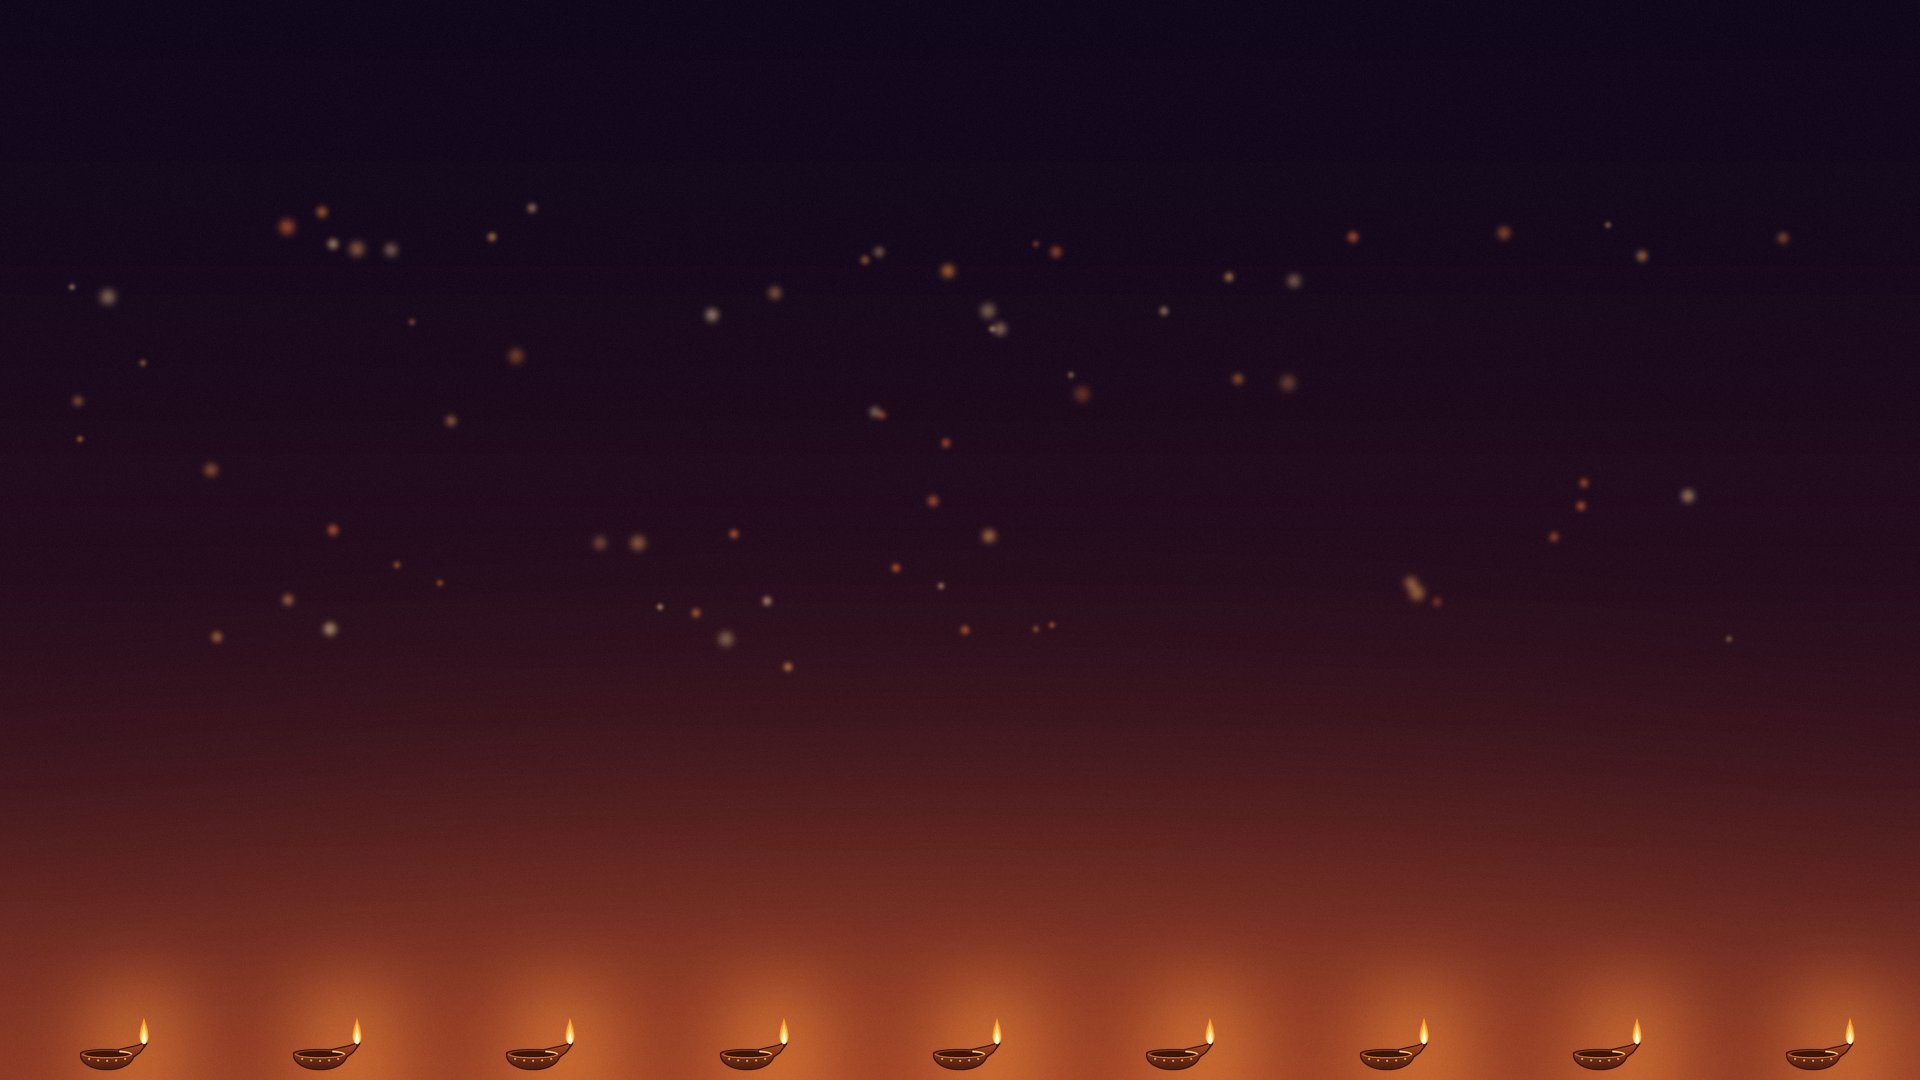
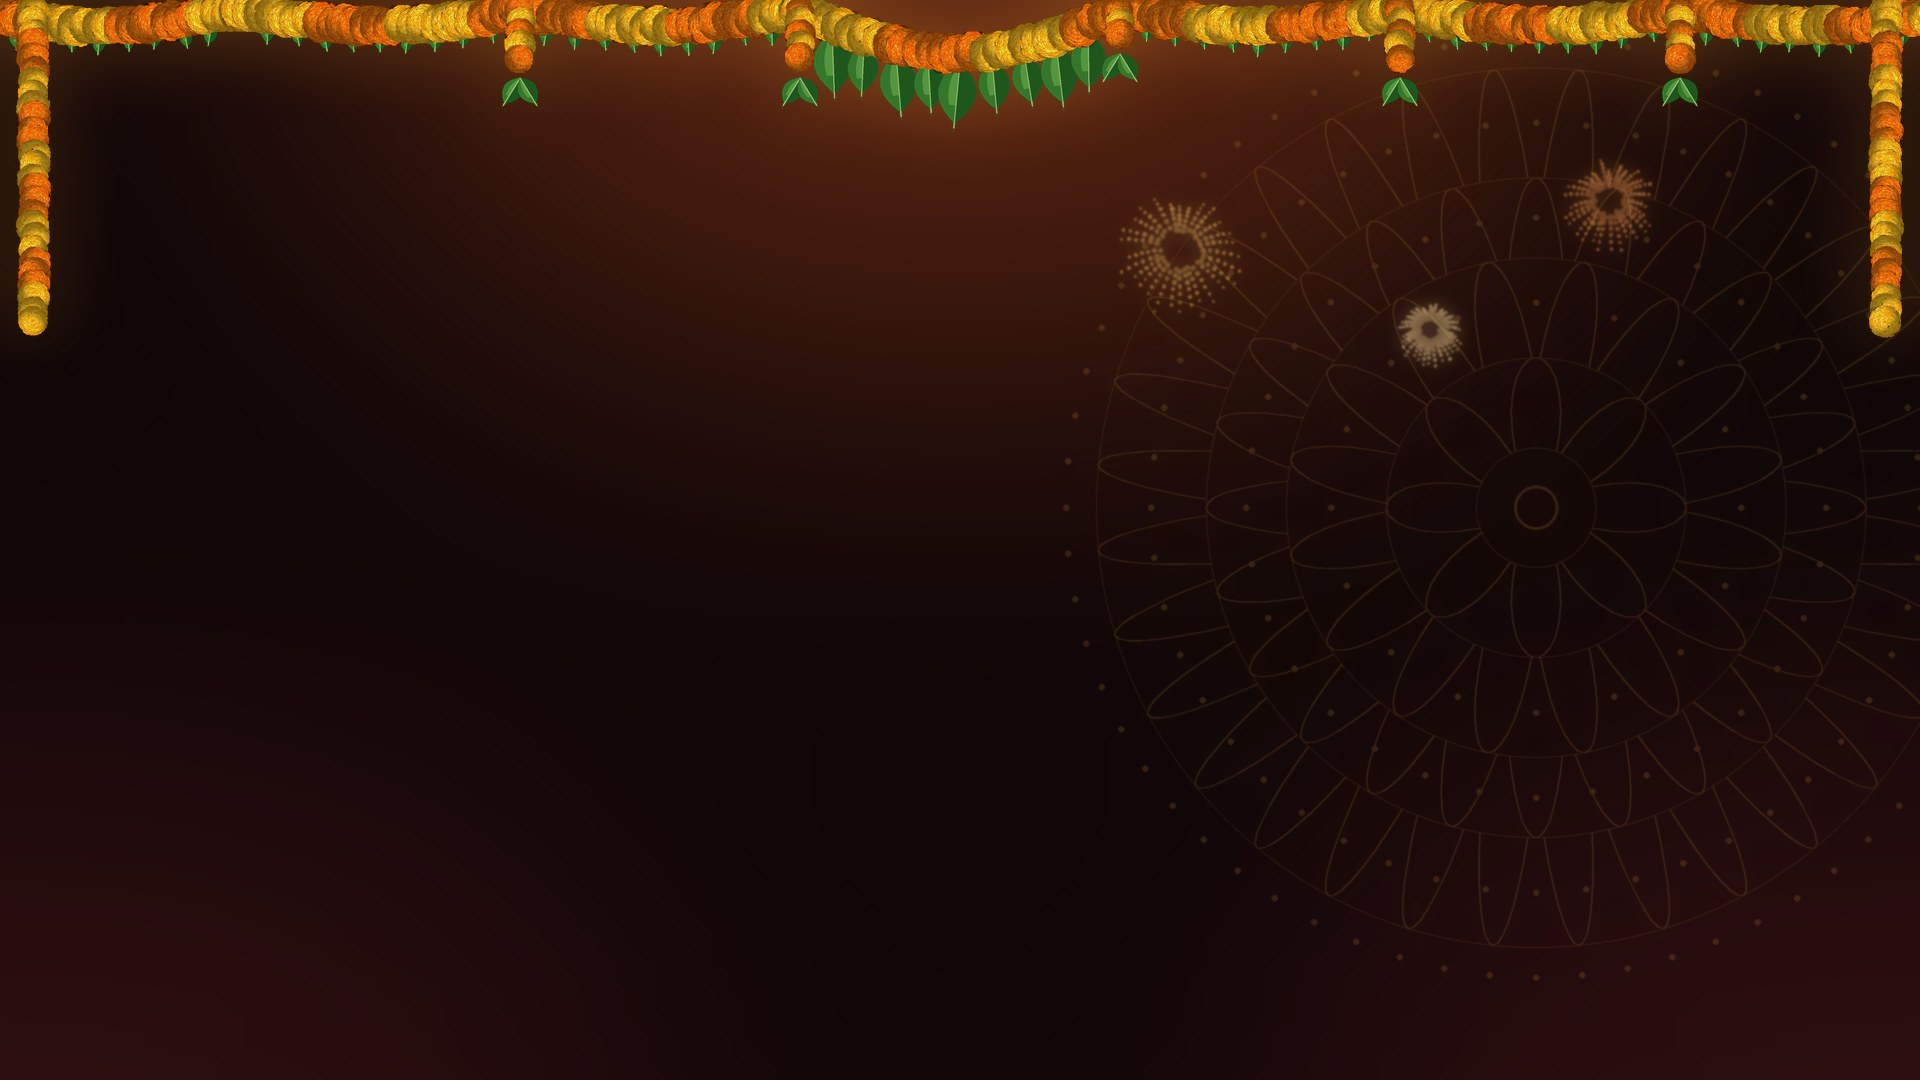
themes/dussehra: festive skin wallpaper (marigold toran and rangoli); document the festival keys

diff --git a/themes/README.md b/themes/README.md
@@ -16,7 +16,7 @@ powershell -ExecutionPolicy Bypass -File tools\theme.ps1 -TvHost 192.168.1.50 th
 |---|---|
 | `default/` | The built-in look written out as JSON, as a starting point for your own |
 | `aurora/` | A dark aurora wallpaper (teal and violet on navy, darker at the bottom) with a matching background colour |
-| `dussehra/` | A festive night sky warming to an ember glow, sparks and a row of diyas along the bottom, for Dussehra and Diwali |
+| `dussehra/` | Festive skin for Dussehra (ends 21 Oct 2026): a marigold toran, a faint gold rangoli, a diya for Wi-Fi, a bell for Inputs, a marigold for Settings and a petal shower |
 | `six-columns/` | Six smaller tiles per row and one grid row visible under the dock |
 
 ## Keys
@@ -43,6 +43,10 @@ is ignored, and a file that doesn't parse is ignored as a whole, so a theme can 
 | `background_color` | `#RRGGBB` | Colour behind everything; black by default |
 | `sky_intensity` | 0 to 100 | Time-of-day backdrop: a dark gradient that follows the clock, 0 hides it (default) |
 | `wallpaper` | bool | Show `wallpaper.jpg` from the theme folder (`true`), or ignore it (`false`) |
+| `festival` | string | Turns on a festive skin: the network pill becomes a diya whose flame follows the connection, Inputs a temple bell, Settings a marigold, and the first Home of the day gets a petal shower. `dussehra` and `diwali` have built-in greetings |
+| `festival_until` | `YYYY-MM-DD` | Last day the festive skin shows; it switches itself off after that. A malformed date turns it off |
+| `greeting` | string | Replaces the time-of-day greeting while the festive skin is on |
+| `accent_color` | `#RRGGBB` | Colour of the focus glow while the festive skin is on; diya gold if not set |
 
 ## Wallpapers
 
